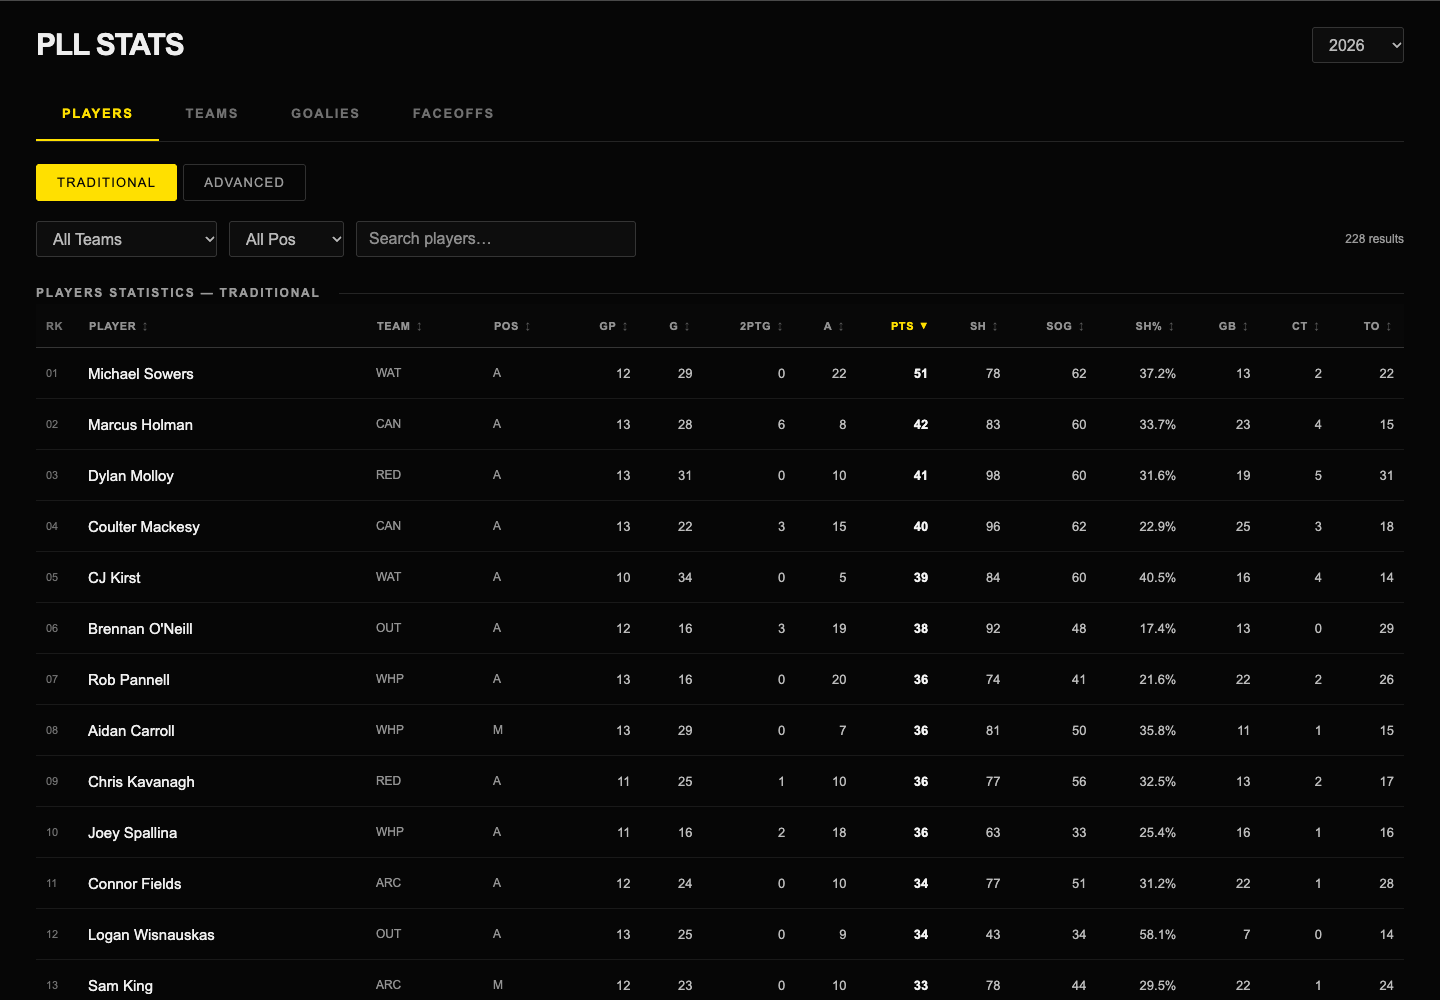
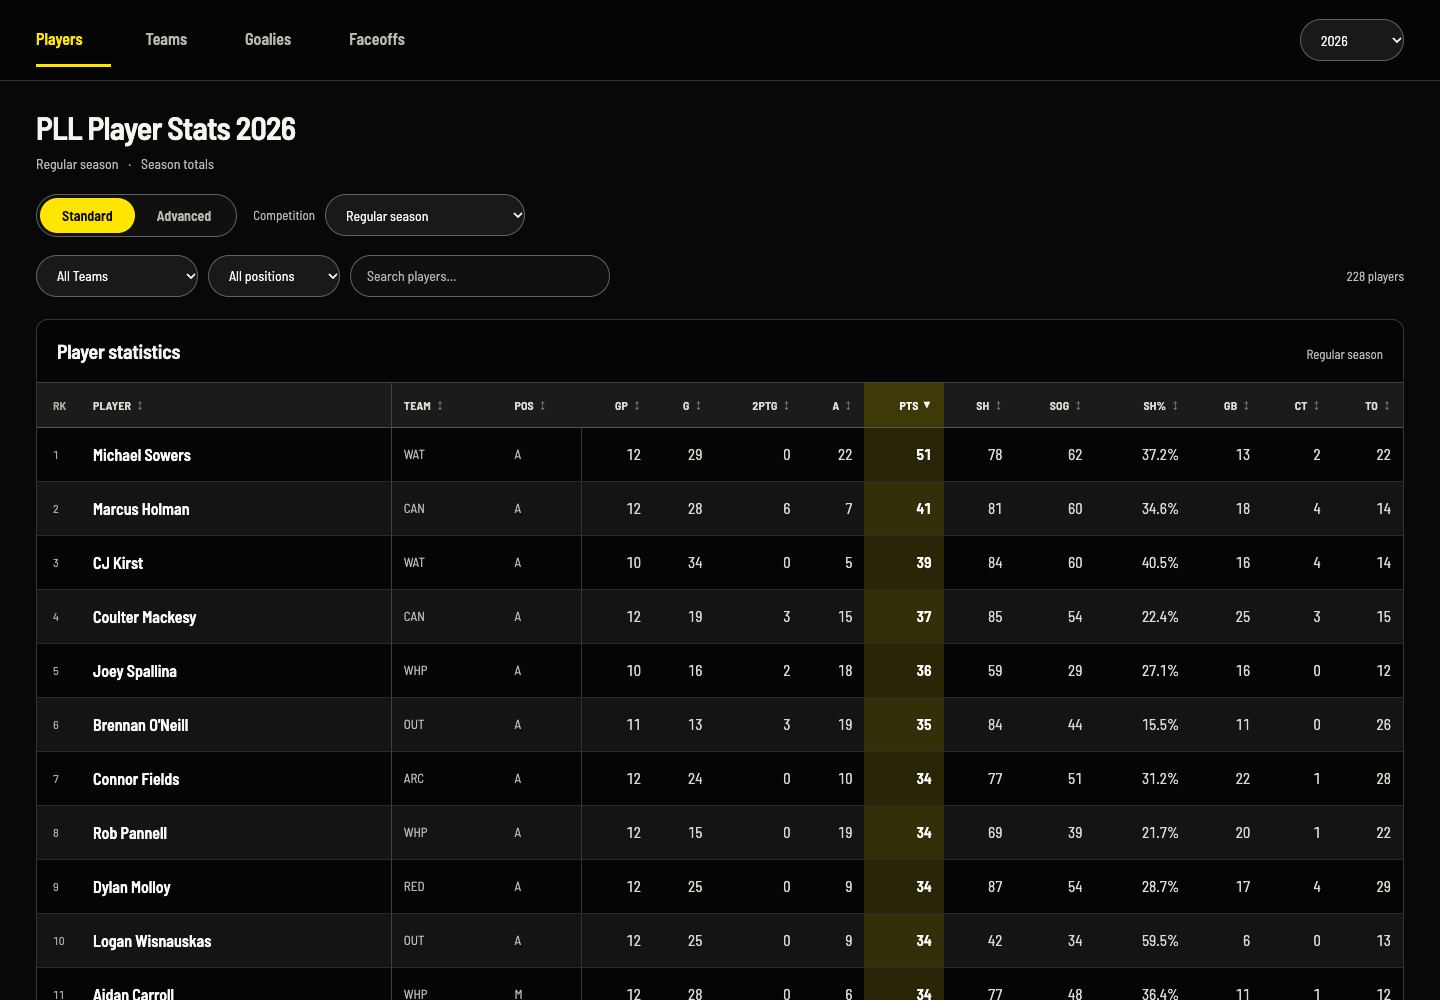
Refresh frontend documentation and statistics preview
Reorganizes previously published frontend and data work into reviewable units.
This is a history restructuring, not a new import or newly performed analysis.
Original published snapshot: 91ae4451590bde8bcf3217fbcbff010c021ed941

diff --git a/frontend/README.md b/frontend/README.md
@@ -4,6 +4,12 @@ A local statistics browser for the frozen PLL Analytics publication tables.
 It includes player, team, goalie, and faceoff views, traditional/advanced metrics,
 season and team filters, search, sorting, and player detail pages.
 
+The black-and-yellow interface uses locally bundled Barlow Semi Condensed type,
+a compact navigation bar, striped rows, a highlighted sort column, pinned player
+names on horizontal scroll, and an expandable stat key. Player pages include
+season comparison charts labeled with their regular-season-plus-playoff scope.
+The Standard tab displays traditional box-score statistics.
+
 ## Run
 
 From the repository root:
@@ -13,7 +19,7 @@ python3 -B frontend/scripts/build.py
 python3 -m http.server 4173 --bind 127.0.0.1 --directory frontend/dist
 ```
 
-Open <http://127.0.0.1:4173/>. There are no runtime npm dependencies, external fonts,
+Open <http://127.0.0.1:4173/>. There are no runtime npm dependencies, remote font requests,
 or CDN requests. Python's standard library builds the app from included data.
 This command serves locally; it does not deploy a public website.
 
@@ -45,7 +51,7 @@ separate team splits. Never add the splits to the total again.
 Missing values display as `—`; observed zero remains zero. Percentages use pooled
 counts. Goalie traditional and advanced rates may differ because their populations
 are official box-score outcomes and resolved event outcomes, respectively.
-The partial-2026 cutoff remains visible in the footer and source metadata.
+The 2026 source metadata now includes the September 20 championship. The 2022–2026 Competition selector offers regular season, playoffs, combined, and Championship Series. The 2022 tournament was not held. Each 2023–2026 Sixes view uses its own tournament baseline and clearly withholds unvalidated possession/pace metrics. Every season defaults to regular season; combined field totals remain available.
 
 ## Routes
 

diff --git a/README.md b/README.md
@@ -13,7 +13,7 @@ The pipeline preserves source records and exposes uncertainty instead of hiding 
 
 ![PLL Stats player table with season, team, position, and search controls](docs/assets/statistics-preview.png)
 
-*Local interface using the included partial-2026 snapshot.*
+*Local statistics interface. The included 2026 data now covers the championship.*
 
 ## What it does
 
@@ -22,9 +22,13 @@ The pipeline preserves source records and exposes uncertainty instead of hiding 
 - Exports analysis-ready CSVs with coverage, source gaps, and missing values preserved.
 - Provides searchable tables and player pages in a local browser interface.
 
-**Coverage:** 2026 is a frozen partial-season snapshot. The latest included game starts
-**August 30, 2026 at 00:30 UTC**. Default outputs include completed regular-season and
-playoff games; All-Star and incomplete games are excluded.
+**Coverage:** 2026 includes all **53 competitive games**, through the championship on
+**September 20, 2026**. Every season from 2022–2026 offers regular-season, playoff, and combined
+views. Each 2023–2026 Championship Series has a separate Sixes view with verified shooting,
+goalie, faceoff, and box-score metrics; possession and pace metrics are withheld.
+Championship Series is marked “Not held” for 2022. Regular season is the default;
+choose Competition to switch to playoffs, Sixes, or combined field-season totals.
+All-Star and preseason games are excluded. See [competition splits](docs/COMPETITION_SPLITS.md).
 
 ## Run locally
 
